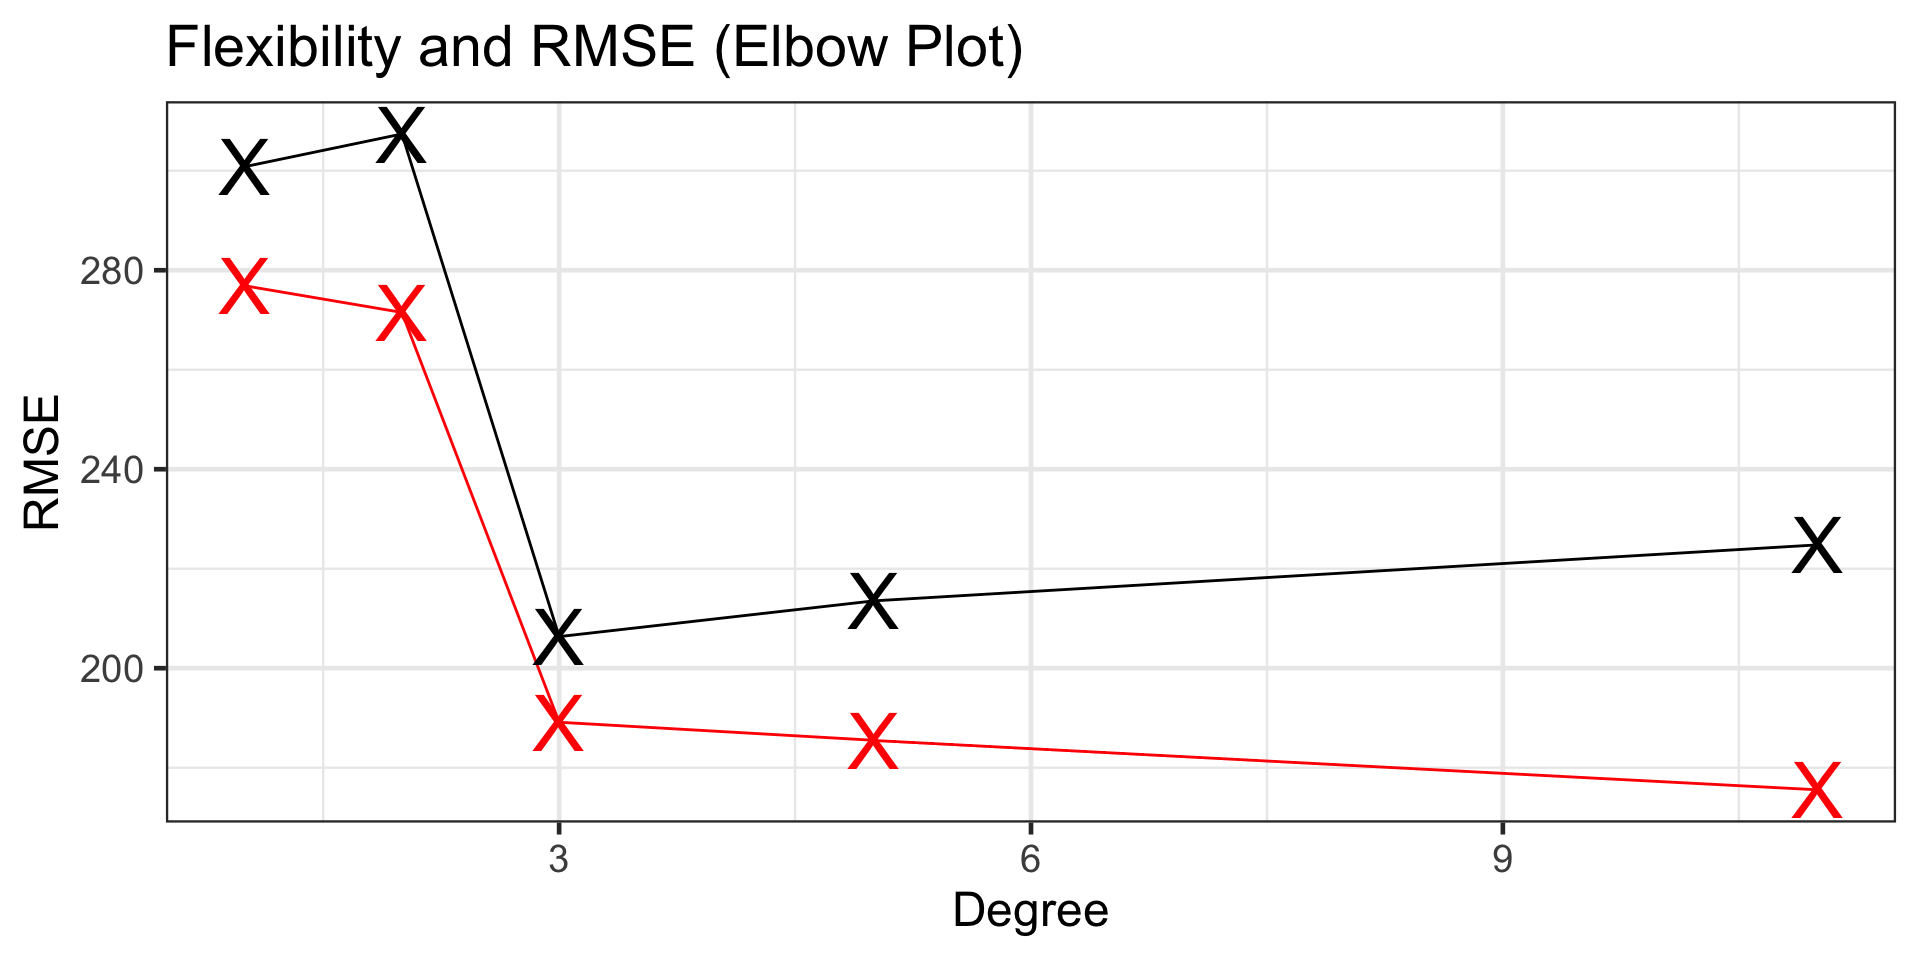
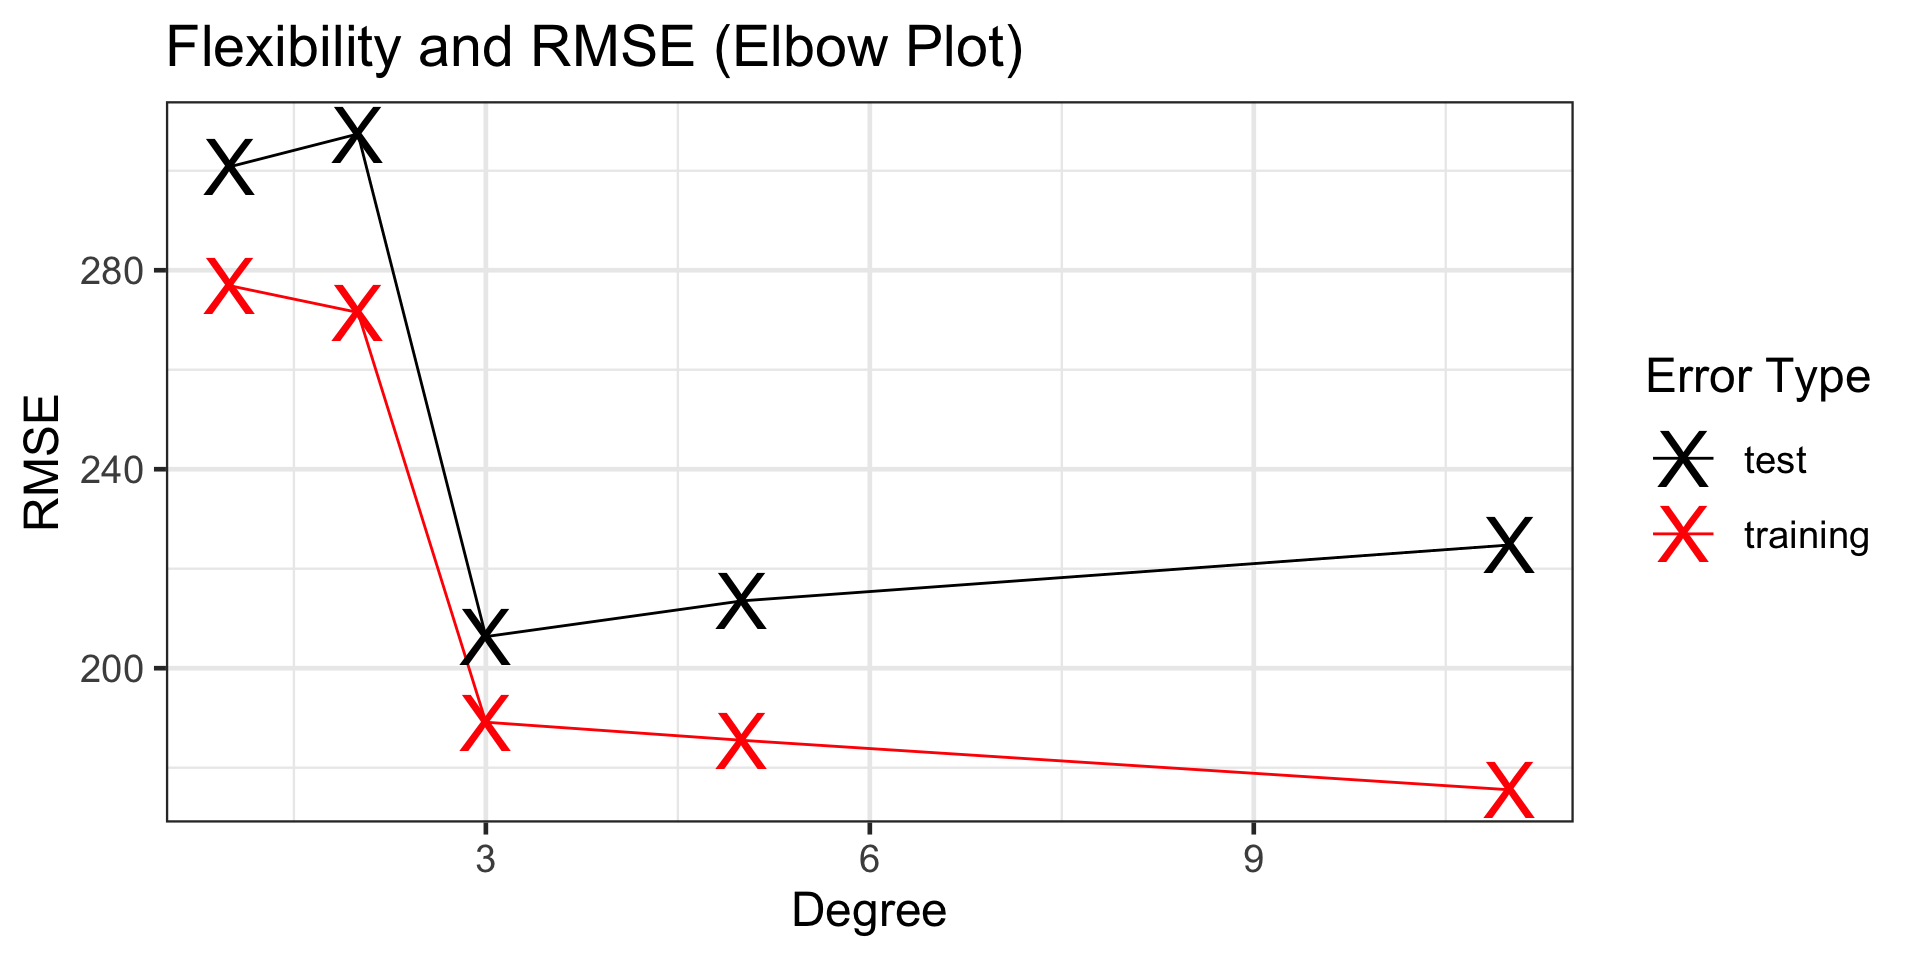
Add error type legend to elbow plot

diff --git a/19d_IntroSlides.html b/19d_IntroSlides.html
@@ -11,7 +11,7 @@
   <meta name="generator" content="quarto-1.5.43">
 
   <meta name="author" content="Dr.&nbsp;Gilbert">
-  <meta name="dcterms.date" content="2024-08-16">
+  <meta name="dcterms.date" content="2024-08-17">
   <title>Model Performance Expectations: Cross-Validation</title>
   <meta name="apple-mobile-web-app-capable" content="yes">
   <meta name="apple-mobile-web-app-status-bar-style" content="black-translucent">
@@ -404,7 +404,7 @@ Dr.&nbsp;Gilbert
 </div>
 </div>
 
-  <p class="date">August 16, 2024</p>
+  <p class="date">August 17, 2024</p>
 </section>
 <section class="slide level2">
 
@@ -539,44 +539,44 @@ code.sourceCode {
 </thead>
 <tbody>
 <tr class="odd">
-<td style="text-align: left;">5th-Order</td>
-<td style="text-align: right;">5</td>
-<td style="text-align: right;">0.7408918</td>
-<td style="text-align: right;">183.3173</td>
-<td style="text-align: right;">0.1723206</td>
-<td style="text-align: right;">225.4513</td>
-</tr>
-<tr class="even">
-<td style="text-align: left;">cubic</td>
-<td style="text-align: right;">3</td>
-<td style="text-align: right;">0.7397739</td>
-<td style="text-align: right;">183.7123</td>
-<td style="text-align: right;">0.1603208</td>
-<td style="text-align: right;">227.4282</td>
-</tr>
-<tr class="odd">
 <td style="text-align: left;">11th-order</td>
 <td style="text-align: right;">11</td>
-<td style="text-align: right;">0.7612052</td>
-<td style="text-align: right;">175.9849</td>
-<td style="text-align: right;">0.0522570</td>
-<td style="text-align: right;">250.3199</td>
+<td style="text-align: right;">0.7274020</td>
+<td style="text-align: right;">198.9840</td>
+<td style="text-align: right;">0.6269154</td>
+<td style="text-align: right;">189.9215</td>
+</tr>
+<tr class="even">
+<td style="text-align: left;">5th-Order</td>
+<td style="text-align: right;">5</td>
+<td style="text-align: right;">0.7077010</td>
+<td style="text-align: right;">206.0490</td>
+<td style="text-align: right;">0.6550589</td>
+<td style="text-align: right;">202.1522</td>
+</tr>
+<tr class="odd">
+<td style="text-align: left;">cubic</td>
+<td style="text-align: right;">3</td>
+<td style="text-align: right;">0.7011384</td>
+<td style="text-align: right;">208.3492</td>
+<td style="text-align: right;">0.6422911</td>
+<td style="text-align: right;">204.6849</td>
 </tr>
 <tr class="even">
 <td style="text-align: left;">quadratic</td>
 <td style="text-align: right;">2</td>
-<td style="text-align: right;">0.4642585</td>
-<td style="text-align: right;">263.5970</td>
-<td style="text-align: right;">0.0087986</td>
-<td style="text-align: right;">293.8260</td>
+<td style="text-align: right;">0.4673546</td>
+<td style="text-align: right;">278.1480</td>
+<td style="text-align: right;">0.3679410</td>
+<td style="text-align: right;">251.8792</td>
 </tr>
 <tr class="odd">
 <td style="text-align: left;">straight-line</td>
 <td style="text-align: right;">1</td>
-<td style="text-align: right;">0.2834374</td>
-<td style="text-align: right;">304.8526</td>
-<td style="text-align: right;">0.0134882</td>
-<td style="text-align: right;">305.3856</td>
+<td style="text-align: right;">0.4002491</td>
+<td style="text-align: right;">295.1497</td>
+<td style="text-align: right;">0.2543926</td>
+<td style="text-align: right;">272.7565</td>
 </tr>
 </tbody>
 </table>
@@ -601,44 +601,44 @@ code.sourceCode {
 </thead>
 <tbody>
 <tr class="odd">
-<td style="text-align: left;">5th-Order</td>
-<td style="text-align: right;">5</td>
-<td style="text-align: right;">0.7686499</td>
-<td style="text-align: right;">189.7455</td>
-<td style="text-align: right;">0.8154101</td>
-<td style="text-align: right;">130.4621</td>
-</tr>
-<tr class="even">
 <td style="text-align: left;">cubic</td>
 <td style="text-align: right;">3</td>
-<td style="text-align: right;">0.7658312</td>
-<td style="text-align: right;">190.8979</td>
-<td style="text-align: right;">0.7926086</td>
-<td style="text-align: right;">135.0007</td>
+<td style="text-align: right;">0.6568734</td>
+<td style="text-align: right;">192.8547</td>
+<td style="text-align: right;">0.5534404</td>
+<td style="text-align: right;">234.4563</td>
+</tr>
+<tr class="even">
+<td style="text-align: left;">5th-Order</td>
+<td style="text-align: right;">5</td>
+<td style="text-align: right;">0.6720720</td>
+<td style="text-align: right;">188.5351</td>
+<td style="text-align: right;">0.5263797</td>
+<td style="text-align: right;">240.9658</td>
 </tr>
 <tr class="odd">
 <td style="text-align: left;">11th-order</td>
 <td style="text-align: right;">11</td>
-<td style="text-align: right;">0.7874820</td>
-<td style="text-align: right;">181.8589</td>
-<td style="text-align: right;">0.8171404</td>
-<td style="text-align: right;">156.4890</td>
+<td style="text-align: right;">0.6880567</td>
+<td style="text-align: right;">183.8827</td>
+<td style="text-align: right;">0.5137843</td>
+<td style="text-align: right;">241.3125</td>
 </tr>
 <tr class="even">
-<td style="text-align: left;">straight-line</td>
-<td style="text-align: right;">1</td>
-<td style="text-align: right;">0.3500251</td>
-<td style="text-align: right;">318.0423</td>
-<td style="text-align: right;">0.2834397</td>
-<td style="text-align: right;">238.6569</td>
-</tr>
-<tr class="odd">
 <td style="text-align: left;">quadratic</td>
 <td style="text-align: right;">2</td>
-<td style="text-align: right;">0.4476688</td>
-<td style="text-align: right;">293.1814</td>
-<td style="text-align: right;">0.2932086</td>
-<td style="text-align: right;">249.7557</td>
+<td style="text-align: right;">0.2794488</td>
+<td style="text-align: right;">279.4701</td>
+<td style="text-align: right;">0.4436900</td>
+<td style="text-align: right;">261.7970</td>
+</tr>
+<tr class="odd">
+<td style="text-align: left;">straight-line</td>
+<td style="text-align: right;">1</td>
+<td style="text-align: right;">0.2785312</td>
+<td style="text-align: right;">279.6480</td>
+<td style="text-align: right;">0.4193274</td>
+<td style="text-align: right;">266.2089</td>
 </tr>
 </tbody>
 </table>
